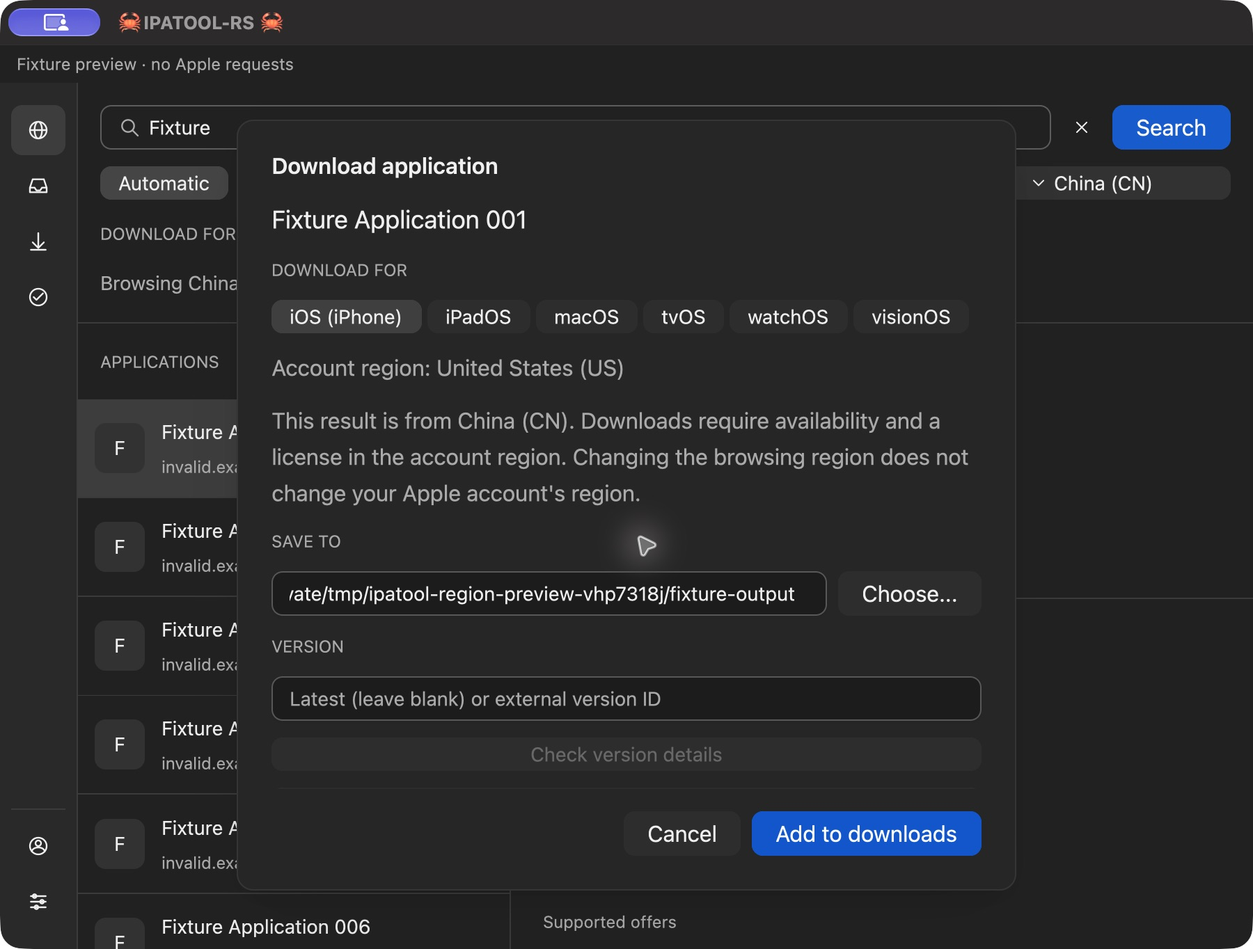
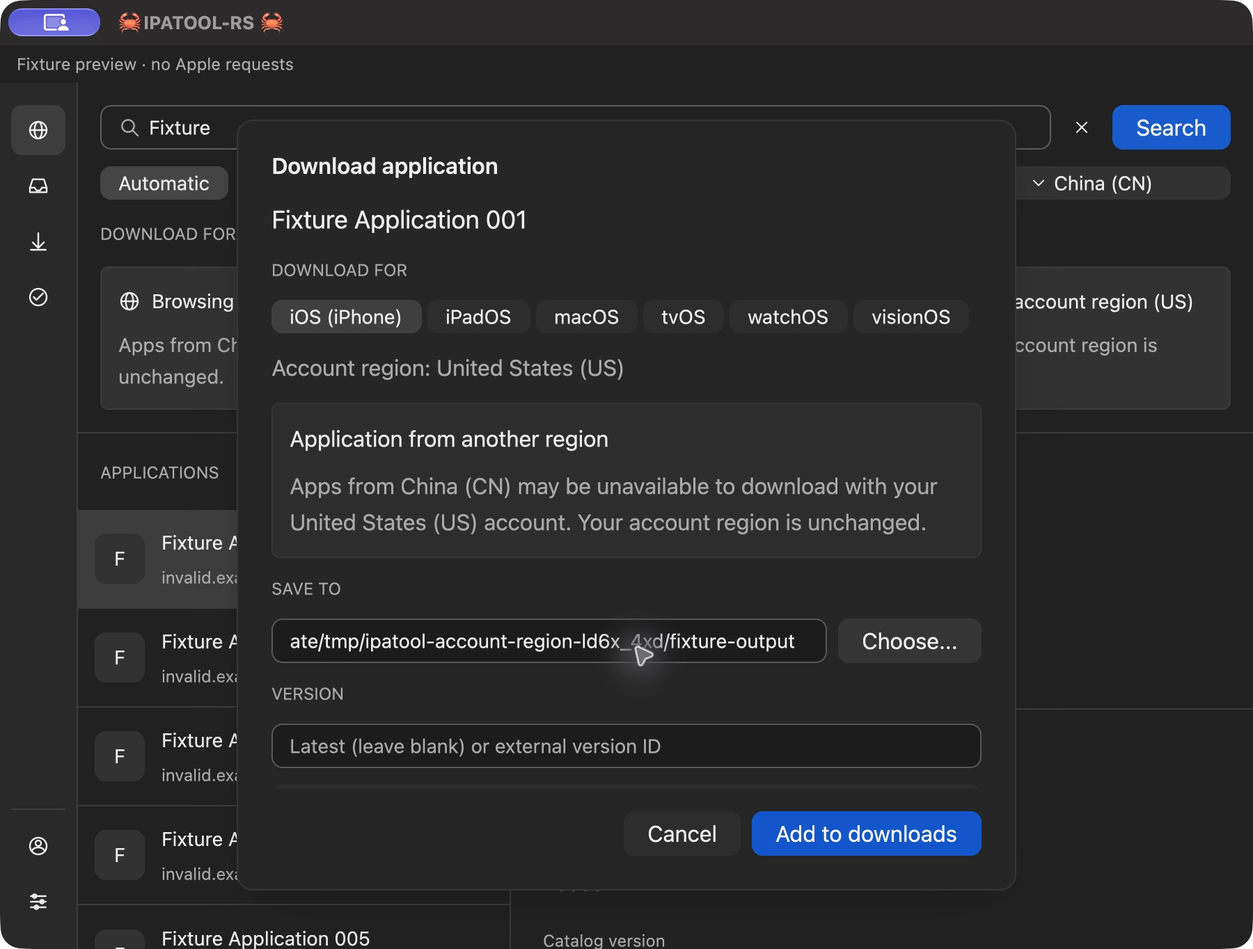
Prefer the signed-in account region for desktop browsing

diff --git a/src/gui/tests.rs b/src/gui/tests.rs
@@ -27,6 +27,7 @@ struct FixtureSession {
     login_calls: Mutex<Vec<(bool, bool)>>,
     purchases: Mutex<Vec<(usize, Option<Platform>)>>,
     catalogs: Mutex<Vec<ipatool_rs::application::catalog::Query>>,
+    account_country: Mutex<String>,
     jobs: Mutex<Vec<JobRequest>>,
     expire_next_job: AtomicBool,
 }
@@ -39,6 +40,7 @@ impl FixtureSession {
             login_calls: Mutex::new(Vec::new()),
             purchases: Mutex::new(Vec::new()),
             catalogs: Mutex::new(Vec::new()),
+            account_country: Mutex::new("US".into()),
             jobs: Mutex::new(Vec::new()),
             expire_next_job: AtomicBool::new(false),
         }
@@ -58,6 +60,12 @@ impl FixtureSession {
             version: "1.2.3".into(),
             ..Default::default()
         }
+    }
+
+    fn account_view(&self) -> AccountView {
+        let mut account = Self::account();
+        account.country = self.account_country.lock().unwrap().clone();
+        account
     }
 }
 
@@ -83,7 +91,7 @@ impl DesktopSession for FixtureSession {
             return Err(ipatool_rs::credentials::CredentialUnlockRequired.into());
         }
         self.generation.fetch_add(1, Ordering::SeqCst);
-        Ok(Some(Self::account()))
+        Ok(Some(self.account_view()))
     }
     fn login(&self, input: LoginInput, _: bool, _: Option<String>) -> Result<AccountView> {
         self.login_calls.lock().unwrap().push((
@@ -96,7 +104,7 @@ impl DesktopSession for FixtureSession {
         assert_eq!(input.auth_code, "123456");
         assert_eq!(input.password, "fixture-password");
         self.generation.fetch_add(1, Ordering::SeqCst);
-        Ok(Self::account())
+        Ok(self.account_view())
     }
     fn revoke(&self) -> Result<()> {
         self.generation.fetch_add(1, Ordering::SeqCst);
@@ -728,6 +736,7 @@ fn verification_continuation_keeps_pending_download_and_replaces_secret_inputs(
     cx: &mut TestAppContext,
 ) {
     let (_directory, view, session, mut cx) = setup(cx);
+    *session.account_country.lock().unwrap() = "CN".into();
     cx.update(|window, cx| {
         view.update(cx, |this, cx| {
             this.open_download(
@@ -751,6 +760,7 @@ fn verification_continuation_keeps_pending_download_and_replaces_secret_inputs(
         view.update(cx, |this, cx| {
             assert!(this.account_form.verifying);
             assert!(this.pending_download.is_some());
+            assert_eq!(this.selected_country(cx), "US");
             assert!(this.account_form.password.read(cx).value().is_empty());
             this.account_form
                 .code
@@ -769,6 +779,11 @@ fn verification_continuation_keeps_pending_download_and_replaces_secret_inputs(
             assert!(!this.account_form.verifying);
             assert!(this.pending_download.is_none());
             assert!(this.download_form.is_some());
+            assert_eq!(this.selected_country(cx), "CN");
+            let download = this.download_form.as_ref().unwrap();
+            assert_eq!(download.app.id, 42);
+            assert_eq!(download.source_country, "US");
+            assert_eq!(download.platform, Platform::Iphone);
             assert!(this.account_form.secret.is_none());
             assert!(this.account_form.code.read(cx).value().is_empty());
         })
@@ -1413,4 +1428,95 @@ fn editing_download_platform_resets_version_data_and_queues_the_reviewed_platfor
     };
     assert_eq!(request.platform, Some(Platform::Iphone));
     assert!(request.external_version_id.is_empty());
+}
+
+#[gpui::test]
+fn account_region_is_the_default_without_overwriting_an_explicit_same_account_override(
+    cx: &mut TestAppContext,
+) {
+    let (_directory, view, session, mut cx) = setup(cx);
+    *session.account_country.lock().unwrap() = "CN".into();
+    cx.simulate_resize(gpui::size(gpui::px(900.), gpui::px(650.)));
+    cx.update(|window, cx| {
+        view.update(cx, |this, cx| {
+            this.term
+                .update(cx, |input, cx| input.set_value("second", window, cx));
+            this.search(cx);
+            this.open_account(window, cx);
+            this.submit_account(true, window, cx);
+        });
+    });
+    cx.run_until_parked();
+    cx.update(|window, cx| {
+        view.update(cx, |this, cx| {
+            assert_eq!(this.account.as_ref().unwrap().country, "CN");
+            assert_eq!(this.selected_country(cx), "CN");
+            assert_eq!(this.query.as_ref().unwrap().country, "CN");
+            assert_eq!(this.preferences.country, "US");
+            this.set_country("US", window, cx);
+            this.submit_account(true, window, cx);
+        });
+    });
+    cx.run_until_parked();
+    cx.update(|_, cx| {
+        view.update(cx, |this, cx| {
+            assert_eq!(this.selected_country(cx), "US");
+            assert_eq!(this.query.as_ref().unwrap().country, "US");
+        });
+    });
+    cx.draw(
+        Default::default(),
+        gpui::size(gpui::px(900.), gpui::px(650.)),
+        |window, _| window.root::<Root>().unwrap().unwrap().into_any_element(),
+    );
+    let warning = cx
+        .debug_bounds("catalog-region-warning")
+        .expect("cross-region warning was painted");
+    assert!(warning.right() <= gpui::px(900.) && warning.bottom() <= gpui::px(650.));
+    let back = cx
+        .debug_bounds("browse-account-region")
+        .expect("account-region shortcut was painted");
+    cx.simulate_click(back.center(), Default::default());
+    cx.run_until_parked();
+    cx.update(|window, cx| {
+        view.update(cx, |this, cx| {
+            assert_eq!(this.selected_country(cx), "CN");
+            assert_eq!(this.query.as_ref().unwrap().country, "CN");
+            this.set_country("US", window, cx);
+            // A different account with the same storefront gets its own default.
+            this.account.as_mut().unwrap().email = "other@example.invalid".into();
+            this.submit_account(true, window, cx);
+        });
+    });
+    cx.run_until_parked();
+    *session.account_country.lock().unwrap() = "GB".into();
+    cx.update(|window, cx| {
+        view.update(cx, |this, cx| {
+            assert_eq!(this.selected_country(cx), "CN");
+            this.set_country("US", window, cx);
+            this.submit_account(true, window, cx);
+        });
+    });
+    cx.run_until_parked();
+    cx.update(|window, cx| {
+        view.update(cx, |this, cx| {
+            assert_eq!(this.selected_country(cx), "GB");
+            assert_eq!(this.query.as_ref().unwrap().country, "GB");
+            this.set_country("US", window, cx);
+            this.account_form.force_file = true;
+            this.submit_account(true, window, cx);
+        });
+    });
+    cx.run_until_parked();
+    cx.update(|_, cx| {
+        view.update(cx, |this, cx| {
+            assert_eq!(this.selected_country(cx), "US");
+            assert_eq!(this.account.as_ref().unwrap().country, "GB");
+            assert_eq!(
+                this.account_form.error.as_ref().unwrap().kind,
+                super::FailureKind::UnlockRequired
+            );
+        });
+    });
+    assert!(session.jobs.lock().unwrap().is_empty());
 }

diff --git a/src/gui/views.rs b/src/gui/views.rs
@@ -111,6 +111,14 @@ fn label(text: &'static str, cx: &App) -> Div {
     muted(text, cx).text_xs()
 }
 
+fn region_mismatch_message(browsing: &str, account: &str) -> String {
+    format!(
+        "Apps from {} may be unavailable to download with your {} account. Your account region is unchanged.",
+        regions::label(browsing),
+        regions::label(account)
+    )
+}
+
 fn inspection_next_action(action: &str) -> (&str, Option<FairMode>) {
     match action {
         "collect native enrollment with fairplay-enroll collect" => (
@@ -502,9 +510,12 @@ impl DesktopWindow {
                 .child(h_flex().gap_1().flex_wrap().child(label("DOWNLOAD FOR", cx)).children(PLATFORMS.into_iter().enumerate().map(|(index, (platform, name))| Button::new(("platform", index)).debug_selector(move || format!("catalog-platform-{}", platform_name(platform))).small().label(name).selected(self.platform == platform).when(self.platform == platform, |button| button.icon(IconName::Check)).on_click(cx.listener(move |this, _, _, cx| this.set_platform(platform, cx))))))
                 .when_some(self.account.as_ref().filter(|account| account.country != self.selected_country(cx)), |view, account| {
                     let country = account.country.clone();
-                    view.child(h_flex().gap_2().flex_wrap()
-                        .child(muted(format!("Browsing {}. Downloads use {}.", regions::label(&self.selected_country(cx)), regions::label(&country)), cx))
-                        .child(Button::new("browse-account-region").small().label(format!("Browse {}", country)).on_click(cx.listener(move |this, _, window, cx| this.set_country(&country, window, cx)))))
+                    view.child(v_flex().debug_selector(|| "catalog-region-warning".into()).p_3().gap_2().rounded_md().border_1().border_color(cx.theme().border).bg(cx.theme().secondary)
+                        .child(h_flex().gap_2().flex_wrap()
+                            .child(Icon::new(IconName::Globe).size_4())
+                            .child(div().flex_1().child("Browsing another region"))
+                            .child(Button::new("browse-account-region").debug_selector(|| "browse-account-region".into()).small().label(format!("Use account region ({})", country)).on_click(cx.listener(move |this, _, window, cx| this.set_country(&country, window, cx)))))
+                        .child(muted(region_mismatch_message(&self.selected_country(cx), &account.country), cx)))
                 })
                 .when(self.searching, |view| view.child(muted("Searching in the background. You can refine the next query.", cx)))
                 .when_some(self.search_error.as_ref(), |view, error| view.child(failure_view(error, cx))))
@@ -813,7 +824,9 @@ impl DesktopWindow {
             .child(label("DOWNLOAD FOR", cx))
             .child(h_flex().gap_1().flex_wrap().children(PLATFORMS.into_iter().enumerate().map(|(index, (platform, name))| Button::new(("download-platform", index)).small().label(name).selected(form.platform == platform).disabled(self.account_busy() || form.loading_versions).on_click(cx.listener(move |this, _, window, cx| this.set_download_platform(platform, window, cx))))))
             .child(muted(format!("Account region: {}", regions::label(&account_country)), cx))
-            .when(form.source_country != account_country, |view| view.child(muted(format!("This result is from {}. Downloads require availability and a license in the account region. Changing the browsing region does not change your Apple account's region.", regions::label(&form.source_country)), cx)))
+            .when(form.source_country != account_country, |view| view.child(v_flex().p_3().gap_2().rounded_md().border_1().border_color(cx.theme().border).bg(cx.theme().secondary)
+                .child("Application from another region")
+                .child(muted(region_mismatch_message(&form.source_country, &account_country), cx))))
             .child(label("SAVE TO", cx)).child(h_flex().gap_2().child(div().flex_1().child(Input::new(&form.output))).child(Button::new("choose-output").label("Choose...").on_click(cx.listener(move |this, _, window, cx| this.choose_path(output.clone(), true, false, window, cx)))))
             .child(label("VERSION", cx)).child(Input::new(&form.version))
             .child(Button::new("check-version").small().label("Check version details").disabled(self.account_busy() || form.version.read(cx).value().trim().is_empty()).on_click(cx.listener(|this, _, window, cx| this.load_version_metadata(window, cx))))

diff --git a/src/gui/actions.rs b/src/gui/actions.rs
@@ -11,6 +11,32 @@ impl DesktopWindow {
         self.refresh_catalog_filters(cx);
     }
 
+    fn accept_account(
+        &mut self,
+        account: Option<AccountView>,
+        window: &mut Window,
+        cx: &mut Context<Self>,
+    ) {
+        // Default to the account region when it first becomes known or the
+        // account/storefront changes. A same-account refresh must preserve an
+        // explicit browsing override made during this session.
+        let country = account
+            .as_ref()
+            .filter(|next| {
+                self.account.as_ref().is_none_or(|previous| {
+                    !previous.email.eq_ignore_ascii_case(&next.email)
+                        || !previous.country.eq_ignore_ascii_case(&next.country)
+                })
+            })
+            .map(|account| account.country.clone());
+        self.account = account;
+        if let Some(country) = country
+            && !self.selected_country(cx).eq_ignore_ascii_case(&country)
+        {
+            self.set_country(&country, window, cx);
+        }
+    }
+
     pub(super) fn set_platform(&mut self, platform: Platform, cx: &mut Context<Self>) {
         if self.platform != platform {
             self.platform = platform;
@@ -519,7 +545,7 @@ impl DesktopWindow {
                 if this.quit_requested { this.clear_secrets(window, cx); cx.quit(); return; }
                 match result {
                     Ok(account) => {
-                        this.account = account;
+                        this.accept_account(account, window, cx);
                         if this.account.is_none() {
                             this.clear_secrets(window, cx);
                             this.account_form.error = Some(Failure { kind: FailureKind::AuthenticationRequired, title: "No saved account".into(), message: "Credential storage is available. Enter your Apple ID and password to sign in.".into(), action: "Sign in".into() });

diff --git a/docs/GUI_TEST_MATRIX.md b/docs/GUI_TEST_MATRIX.md
@@ -26,7 +26,7 @@ account/private-data gates. All work remains on `codex/gpui-catalog` / PR #7.
 | Dark appearance and compact navigation | One neutral graphite palette and a full-height workspace, without a top toolbar. Sidebar/dialog surfaces are brighter than the content, selections and hover states are gray, and primary actions/focus retain blue. Account/settings/sidebar controls are anchored at the bottom of navigation; narrow/collapsed windows retain a 56-point icon rail with tooltips. Native signed-release search, empty account/settings sheets, FairPlay navigation and collapse/restore passed. White primary-button text has approximately 5.65:1 contrast; secondary text on selected rows has 4.95:1. | Historical light, blue-tinted dark captures and earlier toolbar layouts are superseded; platform rendering remains a separate gate. The GPUI palette is an opaque approximation, not native dynamic AppKit material. |
 | Login, verification, unlock, reauthentication | Shared protocol and GPUI fixtures; native fake-password/code focus/submit flow and same-account queue resumption passed. Code challenge cannot be replaced by Load saved account. | Dedicated native passphrase-only unlock and primary-action continuation passed with synthetic services; controlled-account live check remains last. |
 | Library pagination/filter/offer and selection | Native six-page fixture: filter, next page with no matches, clear, Home/End selection and scroll passed. Native version 119 selection/metadata passed; all 20 IDs visible. Narrow footer test includes 200 version choices and an error. | Latest populated 900×650 Library capture passed; portable native interaction remains open. |
-| Download platform and account region | Download sheets expose all six targets; changing target clears prior version IDs/metadata while retaining the output. The queued request uses the reviewed platform. Account-region catalog preflight errors retain only a validated region code, without private error context. Native narrow screenshots show browsing/account-region differences and the fixed footer. | Real Store availability/entitlement and successful package transfer remain live gates. |
+| Download platform and account region | Initial login/load and changed identity/storefront select the account region and refresh results. Same-account refresh preserves an explicit override. Cross-region catalog and download warnings explain possible download failure; the catalog provides a return action. Login retains a pending download's original source-region snapshot. Download sheets expose all six targets; changing target clears prior version IDs/metadata while retaining the output. The queued request uses the reviewed platform. Account-region catalog preflight errors retain only a validated region code, without private error context. Native narrow screenshots show browsing/account-region differences and the fixed footer. | Real Store availability/entitlement and successful package transfer remain live gates. |
 | Immutable queued request and bounded progress | Native version-100 pause followed by independent Latest enqueue; same-account continuation ran first once, cancellation acknowledged, second completed. Original version/license choices remained separate. | Real Store/package processing gate remains open. |
 | Safe transfer cancellation | Stalled localhost body stopped in under two seconds; verified received bytes retained. | Recheck final build and account/package processing latency. |
 | Verified download resume | Account/request/URL and file digests, ETag/Last-Modified and validated ranges pass localhost fixtures, including changed-validator/total rejection before partial bytes are overwritten. Native synthetic restart/retry preserved editable request choices. | Real Store URLs and server validators remain a live gate; synthetic UI downloads do not exercise HTTP resumption. |
@@ -48,7 +48,7 @@ account/private-data gates. All work remains on `codex/gpui-catalog` / PR #7.
 | Native macOS bundle | Debug and release bundles built; Info.plist linted; strict ad hoc signatures passed; actual launch succeeded; application icon decoded natively. | Final debug/release rebuilds and strict signatures passed. Public release launch and native controls passed. Guest execution under the bundle identity still needs the controlled-account gate. |
 | Release CLI | Apple Silicon release script built a signed executable returning 0.2.1. | Current source rebuilt; signed executable returns 0.2.1. |
 | Portable desktop builds | Native Linux x86_64 and Windows MSVC x86_64 CI passed shared fixtures, deterministic GUI controllers, strict Clippy and GUI linking. macOS CI also passed its app-bundle build/signature checks. Windows GNU GUI cross-build and strict all-targets Clippy passed locally. See the exact run in PORTING. | Native Linux/Windows desktop and account interaction remain open. GUI CI builds are debug executables; GUI distribution/release packaging is separate. |
-| Complete local regression | Current default suite: 454 library + 45 CLI passed, 70 ignored. Current gui-test suite adds 36 passing desktop tests, including platform/region refresh, region search/cancellation, target/version reset, footer actions and narrow/normal layout. Strict default, production-GUI, and gui-test all-targets Clippy passed; debug/release signed bundles rebuilt. The earlier graphite source passed Windows GNU linking/Clippy. Runtime source `db63141` passed [all five native CI jobs](https://github.com/everettjf/ipatool-rs/actions/runs/40811697728), including all 36 controllers on each GUI host. | Native desktop interaction, account checks and distribution remain distinct gates. Formatting and whitespace checks passed. Repeat affected checks if source changes. |
+| Complete local regression | Current default suite: 454 library + 45 CLI passed, 70 ignored. Current gui-test suite adds 37 passing desktop tests, including account-region defaults, preserved overrides, platform/region refresh, region search/cancellation, target/version reset and narrow layout. Strict default, production-GUI, and gui-test all-targets Clippy passed; debug/release signed bundles rebuilt. The earlier graphite source passed Windows GNU linking/Clippy. Runtime source `db63141` passed [all five native CI jobs](https://github.com/everettjf/ipatool-rs/actions/runs/40811697728), including all 36 desktop tests on each GUI host. That run predates the subsequent account-first default/warning revision; its new CI is tracked separately in PR #7. | Native desktop interaction, account checks and distribution remain distinct gates. Formatting and whitespace checks passed. Repeat affected checks if source changes. |
 | Reviewable PR, no main merge | Reviewed changes and current native screenshot pushed to `codex/gpui-catalog` / PR #7 after local verification. Shared workflows and desktop changes are recorded separately. | Keep remaining gates explicit; never merge main in this task. |
 | Final controlled-account/private gates | User manual testing reached a signed-in account and reported catalog-preflight misses. Public-only diagnosis reproduced the relevant region difference; no authenticated package transfer or private FairPlay success has been reported. | Continue only the remaining authorized manual checks after autonomous verification. User-reported sign-in does not close live 2FA, entitlement, package, or private processing gates. |
 

diff --git a/docs/PORTING.md b/docs/PORTING.md
@@ -384,7 +384,9 @@ footer. The new captures are explicitly synthetic. Signed local GUI debug/releas
 bundles and the Apple Silicon CLI were rebuilt; live account and FairPlay gates
 remain open.
 
-Runtime source `db63141` also passed [all five jobs in Platform CI 40811697728](https://github.com/everettjf/ipatool-rs/actions/runs/40811697728): native Linux/Windows CLI tests, release builds, public smoke and archive checks; Linux/Windows GUI tests, strict Clippy and linking; and macOS GUI tests, strict Clippy and signed debug bundle construction. All three GUI jobs passed 36 controller tests and seven production-GUI unit tests. Shared test counts differ by host: Linux passed 430 library and 45 CLI tests, Windows 417/45, and macOS 434/45. The portable scripts explicitly filtered 20 pinned-Apple-image checks, which remain covered by the complete local suite; their filtering does not establish live account or FairPlay parity.
+Runtime source `db63141` also passed [all five jobs in Platform CI 40811697728](https://github.com/everettjf/ipatool-rs/actions/runs/40811697728): native Linux/Windows CLI tests, release builds, public smoke and archive checks; Linux/Windows GUI tests, strict Clippy and linking; and macOS GUI tests, strict Clippy and signed debug bundle construction. All three GUI jobs passed 36 tests in the gui-test binary (29 controllers and seven supporting unit tests); the production-GUI configuration also ran those seven supporting unit tests separately. Shared test counts differ by host: Linux passed 430 library and 45 CLI tests, Windows 417/45, and macOS 434/45. The portable scripts explicitly filtered 20 pinned-Apple-image checks, which remain covered by the complete local suite; their filtering does not establish live account or FairPlay parity.
+
+Subsequent manual feedback requested account-first browsing. Initial login or saved-account load now selects the account region, even when a different public region was previously selected or saved. A changed account identity/storefront reapplies that default; same-account reauthentication preserves an explicit override. The existing query refreshes and any pre-login download retains its original app/platform/source-region snapshot. Both the catalog and download sheet prominently explain that cross-region applications may be unavailable to download, and the catalog provides a return-to-account-region action. A synthetic saved-account regression covers CN defaults, same-account overrides, changed identity/storefront, failed unlock, and the rendered narrow warning/return button; the verification-continuation regression also checks the preserved US download after CN login. The local default suite passed 454 library and 45 CLI tests, and the gui-test binary passed 37 desktop tests. Strict default/GUI/gui-test Clippy and native bundle verification are recorded with the PR. These checks do not establish live account or private FairPlay success.
 
 The local feature remains a source-only experimental preview. Its public search,
 controller fixtures and synthetic native walkthroughs do not close live account,

diff --git a/docs/screenshots/fixtures/README.md b/docs/screenshots/fixtures/README.md
@@ -7,15 +7,17 @@ versions, downloads, and progress are synthetic. The screenshots demonstrate
 rendered controls and observed interaction, not successful Apple authentication,
 real package transfers, or private FairPlay compatibility. See
 [the harness instructions](../../GUI_FIXTURE_PREVIEW.md).
-The first three captures below show the current graphite platform/region
+The first five captures below show the current graphite platform/region
 controls. Older interaction captures predate these controls and may retain the
 previous palette; see the [native gallery](../README.md) for public-service captures.
 
 | Capture | Observed interaction |
 | --- | --- |
+| [Account-region default](account-region-default-narrow.png) | Loading the synthetic US account replaces a previously selected CN browsing region and refreshes the existing query. |
+| [Cross-region warning](cross-region-warning-narrow.png) | A subsequent explicit switch back to CN remains available. A persistent notice explains possible download failure and provides a return-to-account-region action. |
 | [iOS and browsing region](catalog-ios-region-narrow.png) | Switching Mac to iOS (iPhone) refreshed the result and detail snapshot without another Search click. |
 | [Searchable region menu](catalog-region-menu-narrow.png) | Searching a country code filters named regions; Enter commits and Escape preserves the previous region. Exact code matches appear first. |
-| [Download target and account region](download-region-target-narrow.png) | The download sheet exposes all six targets, explains the difference between browsing and the synthetic account region, and retains fixed footer actions at 900×650. No task was submitted. |
+| [Download target and account region](download-region-target-narrow.png) | The download sheet exposes all six targets and repeats the cross-region availability warning, while retaining fixed footer actions at 900×650. No task was submitted. |
 | [Refined narrow shell](explore-refined-narrow.png) | The full-height shell fits 900×650 with an icon rail and bottom account/settings actions; only the synthetic fixture banner remains above the workspace. |
 | [Advanced FairPlay after toolbar removal](fairplay-footer-narrow.png) | After scrolling to the end, the entire Build version field remains visible while Add collection task stays fixed. No collection was submitted or private input selected. |
 | [Refined narrow Library](library-refined-narrow.png) | Six-page synthetic Library retains aligned selection and a visible download action at the minimum window size. |

diff --git a/docs/TODO.md b/docs/TODO.md
@@ -23,6 +23,7 @@ checkboxes and local/CI evidence do not close the separate live-validation gates
 
 - [ ] Validate screen-reader accessibility and keyboard navigation. The pinned GPUI build's macOS accessibility tree currently exposes the window chrome but not the custom catalog controls.
 - [x] Clarify iOS/platform selection and browsing versus account regions: refresh catalog results after filter changes, offer a searchable region dropdown and editable download target, and identify account-region catalog misses before package transfer. Real authenticated downloads remain a separate gate.
+- [x] Default public browsing to the loaded account's region, preserve explicit overrides during same-account refresh, and display a persistent cross-region download warning with a return-to-account-region action.
 - [x] Validate native Linux x86_64 and Windows MSVC x86_64 GUI builds, deterministic controllers and strict all-targets Clippy in CI. Windows GNU GUI cross-build and strict all-targets Clippy also pass on macOS. The successful CI run is linked in [PORTING.md](PORTING.md).
 - [ ] Validate Linux x86_64 and Windows x86_64 GUI desktop interaction and account workflows. Headless controller tests and CLI CI do not establish these gates.
 - [ ] Complete distribution signing/notarization and release packaging before distributing the GUI. A repeatable, ad hoc signed macOS bundle build now passes locally; current releases remain CLI-only.

diff --git a/docs/CLI_GUI_IMPLEMENTATION_PLAN.md b/docs/CLI_GUI_IMPLEMENTATION_PLAN.md
@@ -164,6 +164,12 @@ All product strings remain English.
   can be corrected, not an irreversible guess.
 - Keep platform and searchable country controls compact. Remember the last
   selection; initial offer-platform behavior remains consistent with the CLI.
+- Once an account is loaded or signed in, default browsing to its storefront.
+  Apply that default again if the account identity or storefront changes. Keep
+  manual region switching available, preserve an override during same-account
+  refresh, and show a persistent cross-region download warning with an explicit
+  return-to-account-region action. Preserve any pending download's original
+  application/region snapshot when login changes the browsing default.
 - Allow editing while loading. Retain appropriate prior results and expose the
   new query's loading state without showing obsolete results as current.
 - Display the selected application's identity, version, supported offers, and

diff --git a/README.md b/README.md
@@ -177,6 +177,11 @@ workflows. Browsing does not open credential storage. Account access starts only
 through an explicit account/download action; downloads check the account's
 storefront and entitlement. The download dialog allows changing the target
 platform and explains when the browsing region differs from the account region.
+Signing in or loading a saved account defaults browsing to that account's region,
+including when its identity or storefront changes. You can still select another
+region; the catalog and download sheet then warn that some applications may be
+unavailable to download. The catalog offers a return-to-account-region action.
+Same-account reauthentication preserves a manual browsing override.
 Browsing another region does not change the Apple account's storefront. A catalog
 miss during download preflight reports the account region before any package
 transfer starts. Task history contains request metadata and artifact

diff --git a/docs/screenshots/README.md b/docs/screenshots/README.md
@@ -11,7 +11,10 @@ visual reference for the palette. The latest
 [iOS/region controls](fixtures/catalog-ios-region-narrow.png),
 [region dropdown](fixtures/catalog-region-menu-narrow.png), and
 [download target sheet](fixtures/download-region-target-narrow.png) are shown in
-the explicitly synthetic narrow gallery. Earlier images are
+the explicitly synthetic narrow gallery, alongside the
+[account-region default](fixtures/account-region-default-narrow.png) and
+[persistent cross-region warning](fixtures/cross-region-warning-narrow.png).
+Earlier images are
 historical interaction evidence and may show superseded controls. Light/system
 themes are no longer supported; subsequent interaction changes require refreshing
 affected captures.
